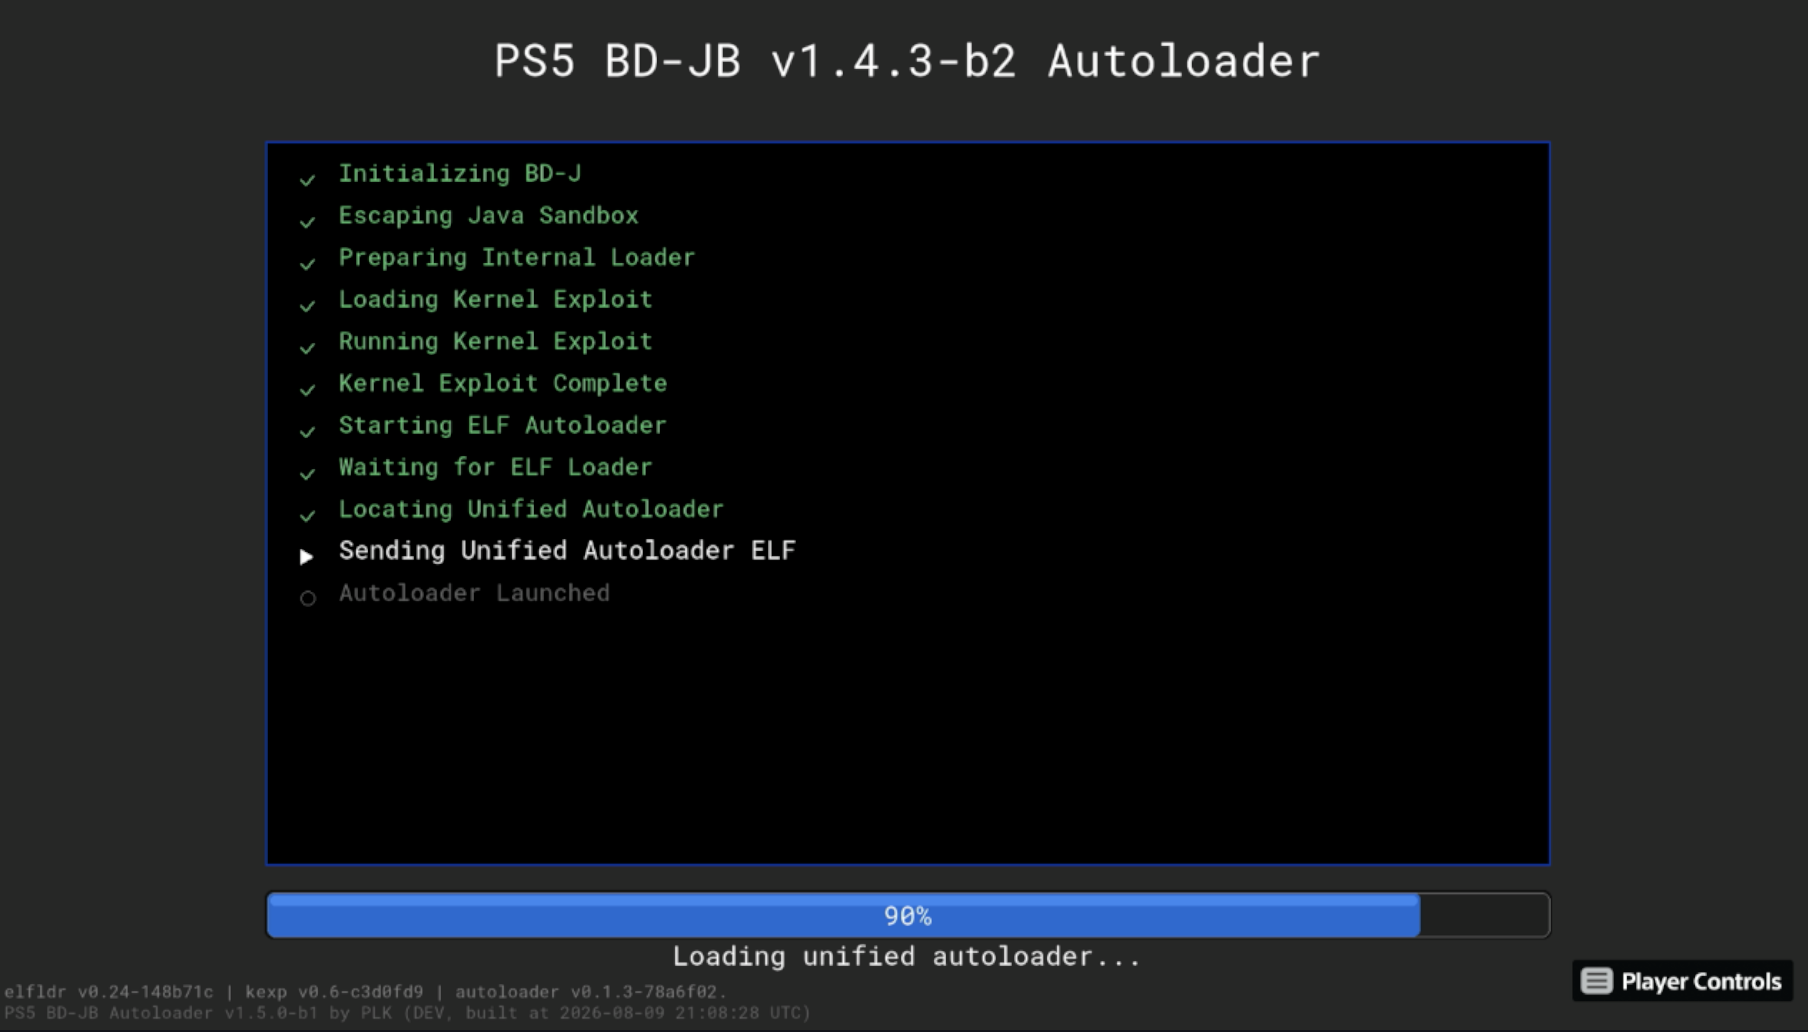
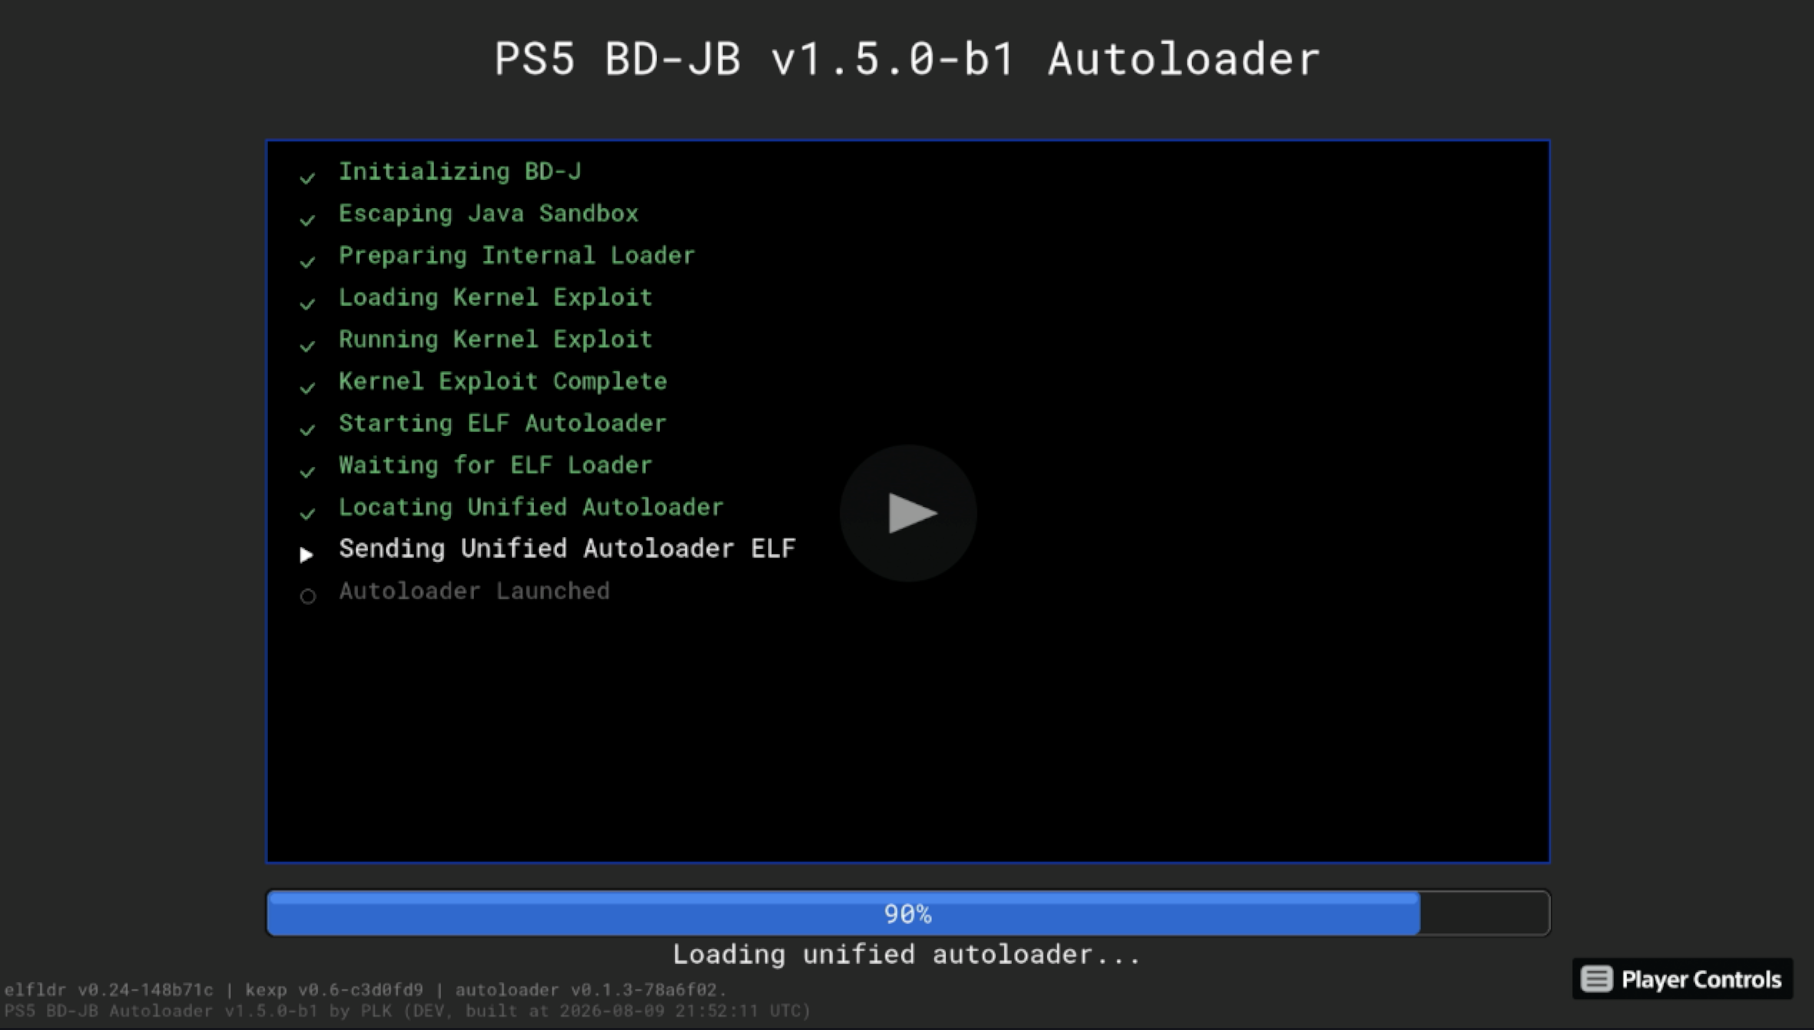
Update

diff --git a/src/org/bdj/Screen.java b/src/org/bdj/Screen.java
@@ -77,7 +77,7 @@ public class Screen extends Container {
     private final ArrayList messages = new ArrayList();
     private int progressPercent = 0;
     private String progressMessage = "";
-    private String title = "PS5 BD-JB v1.4.3-b2 Autoloader " + Version.VERSION + ("stable".equals(Version.BUILD_TYPE) ? "" : "-" + Version.BUILD_TYPE);
+    private String title = "PS5 BD-JB v1.5.0-b1 Autoloader " + Version.VERSION + ("stable".equals(Version.BUILD_TYPE) ? "" : "-" + Version.BUILD_TYPE);
 
 
     private static final String ELF_LDR_VERSION = "v0.24-148b71c";

diff --git a/src/org/bdj/InitXlet.java b/src/org/bdj/InitXlet.java
@@ -27,7 +27,7 @@ public class InitXlet implements Xlet {
 
         screen = Screen.getInstance();
         screen.setSize(1920, 1080);
-        screen.setTitle("PS5 BD-JB v1.4.3-b2 Autoloader");
+        screen.setTitle("PS5 BD-JB v1.5.0-b1 Autoloader");
         Status.setProgress(0, "Initializing...");
 
         scene = HSceneFactory.getInstance().getDefaultHScene();
